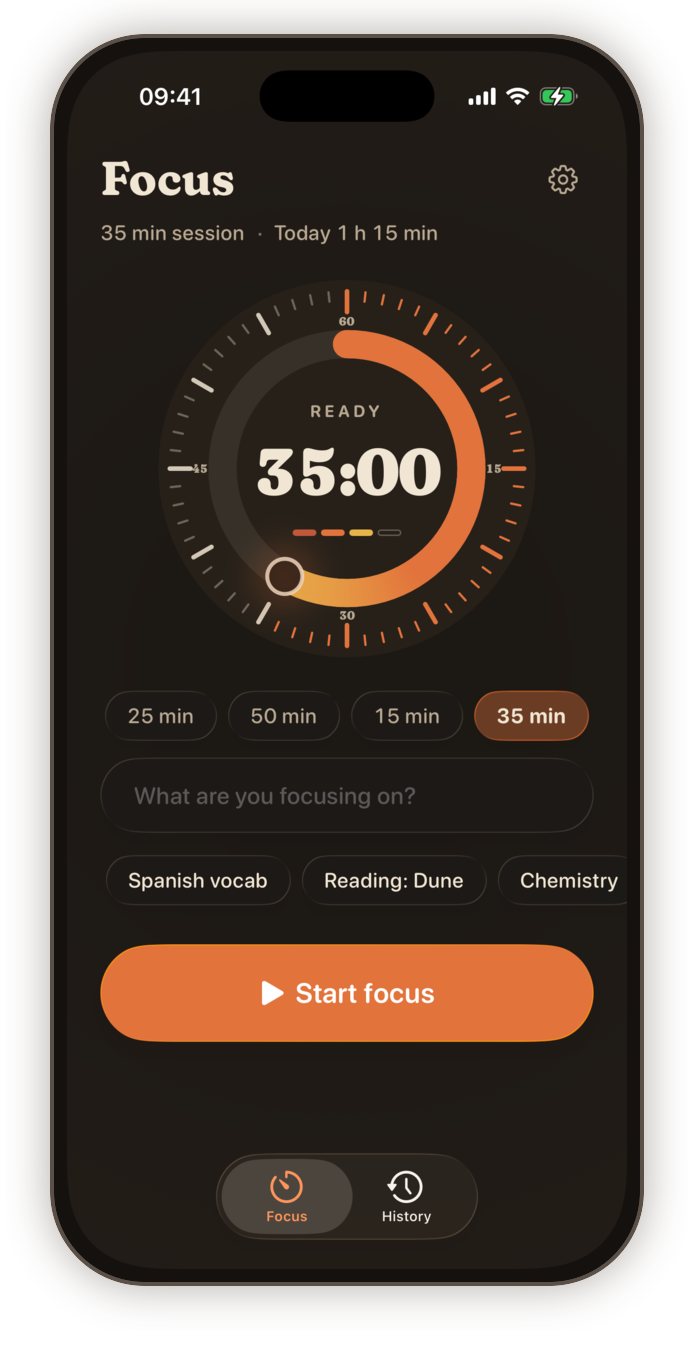
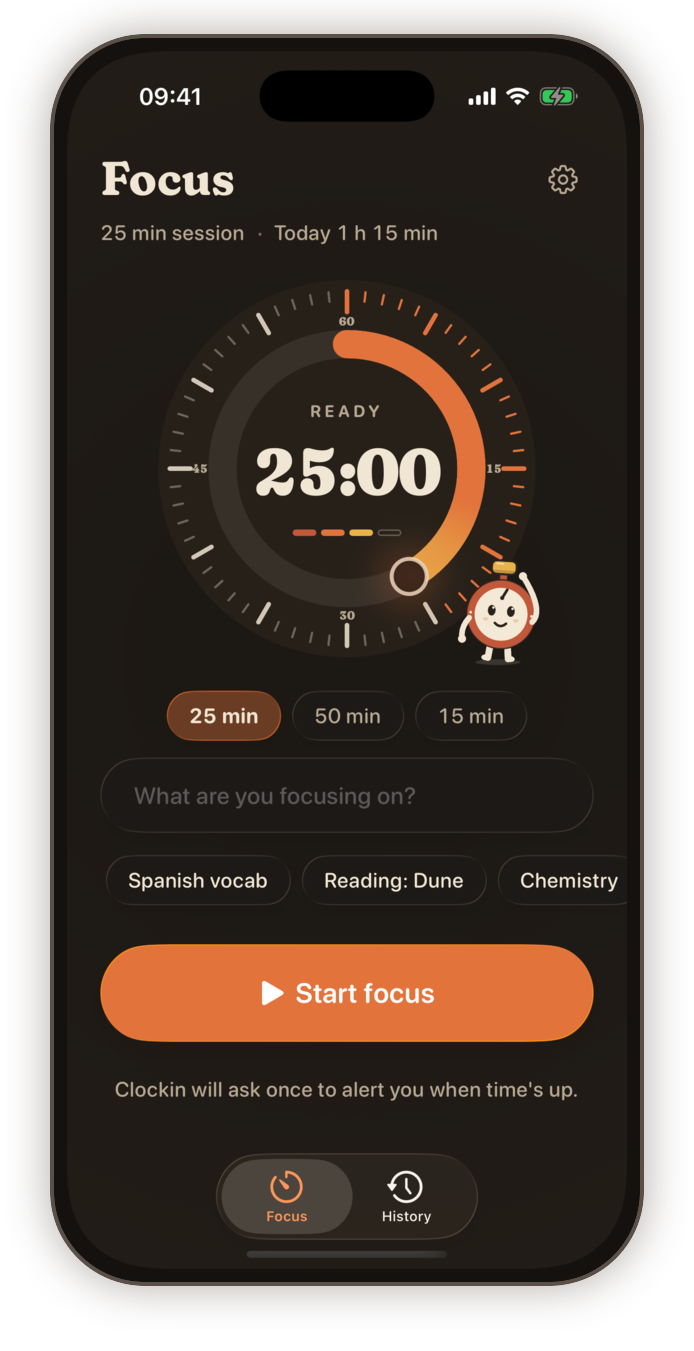
README: Tick
A Features entry for Tick and its calm rules, a Design note on how it's
drawn, the two app icons, and a credit that Tick, the icons and the banner
are drawn in code here. The banner is now drawn by render-tick.sh (name in
Fraunces, Tick at work, done and on a break), and the Focus and Lock Screen
screenshots show Tick.

diff --git a/scripts/render-tick.swift b/scripts/render-tick.swift
@@ -10,12 +10,19 @@ struct RenderTick {
     static func main() throws {
         let arguments = CommandLine.arguments.dropFirst()
         guard let mode = arguments.first, let out = arguments.dropFirst().first else {
-            print("usage: render-tick sheet|shapes <file.png> | icon <directory>")
+            print("usage: render-tick sheet|shapes|hero <file.png> | icon <directory>")
             exit(2)
         }
         switch mode {
         case "sheet": try write(ContactSheet(), scale: 2, to: URL(fileURLWithPath: out))
         case "shapes": try write(Silhouettes(), scale: 2, to: URL(fileURLWithPath: out))
+        case "hero":
+            // The README's banner: the name in Fraunces, Tick working, resting, done.
+            for font in ["Display", "Title", "Text"] {
+                let url = URL(fileURLWithPath: "Shared/Fonts/FrauncesClockin-\(font).ttf")
+                CTFontManagerRegisterFontsForURL(url as CFURL, .process, nil)
+            }
+            try write(Hero(), scale: 2, to: URL(fileURLWithPath: out))
         case "icon":
             // The icon's Tick layers: 1024 px, transparent, for Icon Composer bundles.
             let directory = URL(fileURLWithPath: out)
@@ -111,5 +118,56 @@ struct IconLayer: View {
             .frame(width: 860, height: 860)
             .offset(y: 30)
             .frame(width: 1024, height: 1024)
+    }
+}
+
+/// The README's banner, 1600 x 933: the name, the line, the set of four,
+/// and Tick at work, on a break and done.
+struct Hero: View {
+    let ink = Color(red: 0.165, green: 0.129, blue: 0.106)
+    let soft = Color(red: 0.404, green: 0.345, blue: 0.294)
+    let stripes = [Color(red: 0.612, green: 0.239, blue: 0.133), Color(red: 0.824, green: 0.376, blue: 0.165),
+                   Color(red: 0.890, green: 0.655, blue: 0.184)]
+
+    var body: some View {
+        let palette = TickPalette.fixed(dark: false)
+        HStack(spacing: 0) {
+            VStack(alignment: .leading, spacing: 18) {
+                Text("Clockin")
+                    .font(.custom("FrauncesClockin-Display", size: 150))
+                    .foregroundStyle(ink)
+                Text("One thing at a time.")
+                    .font(.custom("FrauncesClockin-Title", size: 46))
+                    .foregroundStyle(soft)
+                Text("A retro focus timer for iPhone")
+                    .font(.custom("FrauncesClockin-Text", size: 32))
+                    .foregroundStyle(soft)
+                HStack(spacing: 12) {
+                    ForEach(0..<3, id: \.self) { i in
+                        Capsule().fill(stripes[i]).frame(width: 60, height: 16)
+                    }
+                    Capsule().strokeBorder(Color(red: 0.31, green: 0.435, blue: 0.369), lineWidth: 3)
+                        .frame(width: 60, height: 16)
+                }
+                .padding(.top, 28)
+            }
+            .padding(.leading, 104)
+            Spacer(minLength: 0)
+            ZStack {
+                TickFigure(pose: .working, palette: palette, detail: .handmade)
+                    .frame(width: 330, height: 330)
+                    .offset(x: -190, y: 90)
+                TickFigure(pose: .onBreak, palette: palette, detail: .handmade)
+                    .frame(width: 300, height: 300)
+                    .offset(x: 170, y: 110)
+                TickFigure(pose: .done, palette: palette, detail: .handmade)
+                    .frame(width: 400, height: 400)
+                    .offset(x: -10, y: -110)
+            }
+            .frame(width: 760)
+            .padding(.trailing, 40)
+        }
+        .frame(width: 1600, height: 933)
+        .background(Color(red: 0.91, green: 0.83, blue: 0.68))
     }
 }

diff --git a/README.md b/README.md
@@ -1,5 +1,5 @@
 <p align="center">
-  <img src="docs/screenshots/hero.jpg" alt="Clockin: Focus, completion and History screens" width="100%">
+  <img src="docs/screenshots/hero.jpg" alt="Clockin: Tick, the kitchen-timer mascot, at work, done and on a break" width="100%">
 </p>
 
 # Clockin
@@ -8,6 +8,7 @@ A retro, one-thing-at-a-time focus timer for iPhone. Name what you're working on
 
 ## Features
 
+- **Tick:** Clockin's mascot, a little kitchen timer whose ring is its own timer and whose crown is the start button. It leans on the dial and shows how things stand: ready (asleep at night), headphones on while you focus, arms crossed and a foot tapping when paused, a jump when a session's done (proud for the fourth of a set), a kind shrug after Finish now, back to work if you keep going past the bell, and feet up with a mug on a break. It moves for a moment when things change and then holds still. It never sulks, dies or nags, and there's nothing to earn. Tick is on the Lock Screen, in the Dynamic Island, in StandBy, on the widget and on the ringing alarm too, and it's the app icon: at work, or on a break if you pick that in Settings.
 - **One session at a time:** focus, pause and resume, or cancel without recording (and undo the cancel for a few seconds). The break starts manually and never counts as focus time.
 - **Your rhythm:** Classic 25/5, Deep 50/10 or Short 15/3, and a 15-minute long break after every fourth full session of the day. "+5 min" in the last five minutes, and "Finish now" to stop early and keep the minutes. Pick the length from chips under the dial or in Settings, or drag the dial's knob like a kitchen timer to any length from 5 to 60 minutes, one detent per five minutes (its break is a fifth of it, 3 to 15 minutes). It applies from the next session.
 - **Keeps going after the bell:** if you carry on past time's up, the dial keeps time in a thin rust lap round its rim, "+3 min" under the seal, once a minute for up to an hour. "Keep +3 min" adds the whole minutes to the session; starting the break or Done leaves it as it rang.
@@ -39,7 +40,7 @@ A retro, one-thing-at-a-time focus timer for iPhone. Name what you're working on
 
 | Focus | Running | Kept going |
 |:---:|:---:|:---:|
-| <img src="docs/screenshots/focus-idle.png" width="250" alt="Focus screen with the dial set to 35 minutes and the length chips"> | <img src="docs/screenshots/focus-running.png" width="250" alt="A focus session running"> | <img src="docs/screenshots/focus-complete.png" width="250" alt="Session complete, four minutes past the bell, with the overtime lap and Keep +4 min"> |
+| <img src="docs/screenshots/focus-idle.png" width="250" alt="Focus screen, ready, with Tick leaning on the dial"> | <img src="docs/screenshots/focus-running.png" width="250" alt="A focus session running"> | <img src="docs/screenshots/focus-complete.png" width="250" alt="Session complete, four minutes past the bell, with the overtime lap and Keep +4 min"> |
 
 | History | Session card | Settings |
 |:---:|:---:|:---:|
@@ -47,13 +48,17 @@ A retro, one-thing-at-a-time focus timer for iPhone. Name what you're working on
 
 | Lock Screen | Home Screen widget |
 |:---:|:---:|
-| <img src="docs/screenshots/lock-screen.png" width="250" alt="Live Activity on the Lock Screen"> | <img src="docs/screenshots/widget.png" width="250" alt="Medium widget on the Home Screen"> |
+| <img src="docs/screenshots/lock-screen.png" width="250" alt="Live Activity on the Lock Screen, with Tick on the dial"> | <img src="docs/screenshots/widget.png" width="250" alt="Medium widget on the Home Screen"> |
 
 | Bedside clock | Dynamic Island |
 |:---:|:---:|
 | <img src="docs/screenshots/bedside.png" width="420" alt="The bedside clock in landscape"> | <img src="docs/screenshots/dynamic-island.png" width="380" alt="Expanded Dynamic Island"> |
 
 ## Design
+
+<p align="center"><img src="docs/screenshots/app-icons.png" width="260" alt="The two app icons: Tick at work with headphones, and Tick on a break with a mug"></p>
+
+- **Tick:** a round Bakelite timer in the palette (cream face, terracotta ring, mustard crown) with a clock hand for an eyebrow. One silhouette per pose, so each reads even as a solid shape. Drawn with SwiftUI shapes in layers, so the same code draws it in the app, the widgets, the icon (`scripts/render-tick.sh`) and this README's banner; the detail follows the size, down to a head-only glyph in the Dynamic Island.
 
 - **Warm 70s palette:** paper, ink, rust, burnt orange, mustard and avocado, with full light and dark modes.
 - **One progress language:** every ring and bar shows time left and drains as it runs. The app's dial is a 60-minute kitchen-timer face, so a session unwinds from where you set the knob; the widget, Lock Screen, StandBy and Dynamic Island rings start full. A finished phase is a full mustard ring everywhere. Pills show focus sessions (four per set, filling rust → orange → mustard → avocado), the same everywhere.
@@ -66,6 +71,8 @@ A retro, one-thing-at-a-time focus timer for iPhone. Name what you're working on
 Fraunces by Undercase Type, under the SIL Open Font License 1.1 (`Shared/Fonts/OFL.txt`). Clockin bundles modified cuts named Fraunces Clockin.
 
 The chime (`Clockin/Sounds/clockin-ding.caf`) is synthesised from scratch by `scripts/make-chime.sh`: a two-note bell, 24 seconds, so it fits the 30-second limit for notification sounds.
+
+Tick, the app icons and the banner are drawn in code in this repository (`Shared/Mascot`, `scripts/render-tick.sh`); no generated or licensed art.
 
 ## Requirements
 
@@ -123,6 +130,8 @@ CI (`.github/workflows/ci.yml`) generates the project, runs the tests on an iPho
 Copy lives in `Shared/Design/Copy.swift` (one phrase per moment) and `Shared/Localizable.xcstrings`, which holds the plural forms. Xcode adds new strings to the catalog when it builds; after a command-line build, run `scripts/sync-strings.sh`.
 
 README screenshots come from a simulator launched with `-DemoData`, captured with `xcrun simctl io <device> screenshot --mask=alpha` and framed by `scripts/frame-screenshot.sh`.
+
+`scripts/render-tick.sh` draws Tick on the Mac from the app's own code: `sheet` and `shapes` for contact sheets of every pose, `icon` for the app icons' layers (`Clockin/AppIcon.icon`, `Clockin/AppIconBreak.icon`) and `hero` for the banner.
 
 Logs go to the unified log under the subsystem `com.moha.clockin` (categories `store`, `live-activity`, `notifications`). Filter for it in Console.app. Errors are logged in full, and session names are never logged.
 
